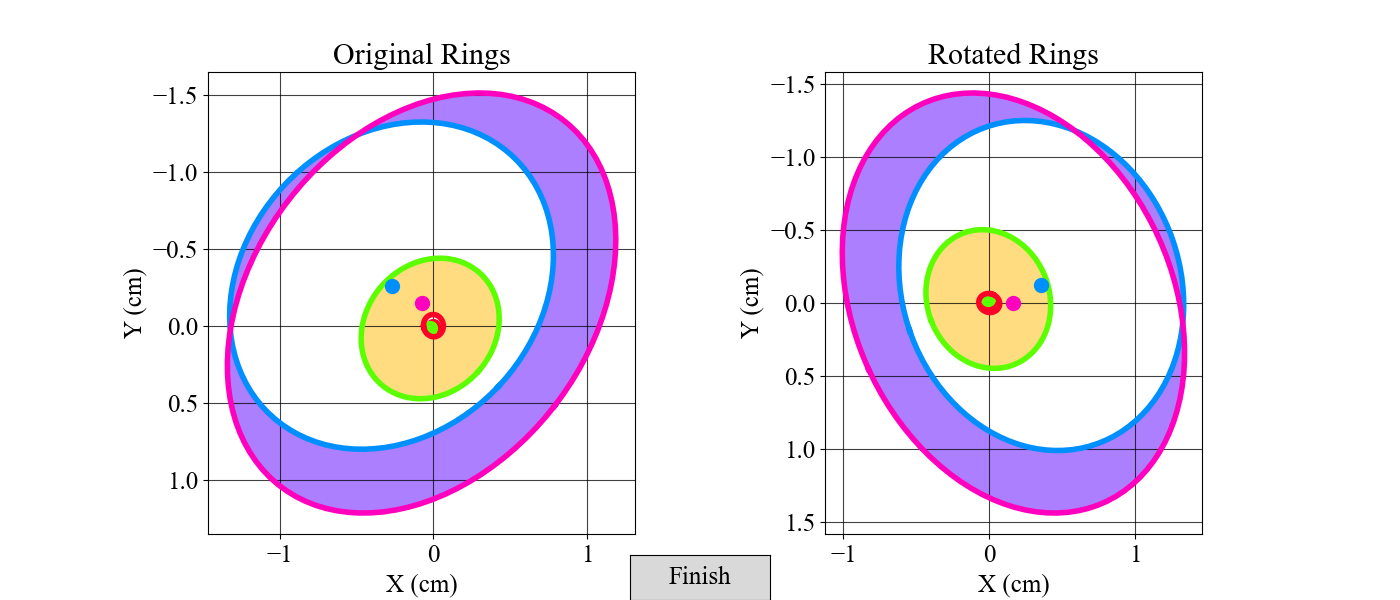
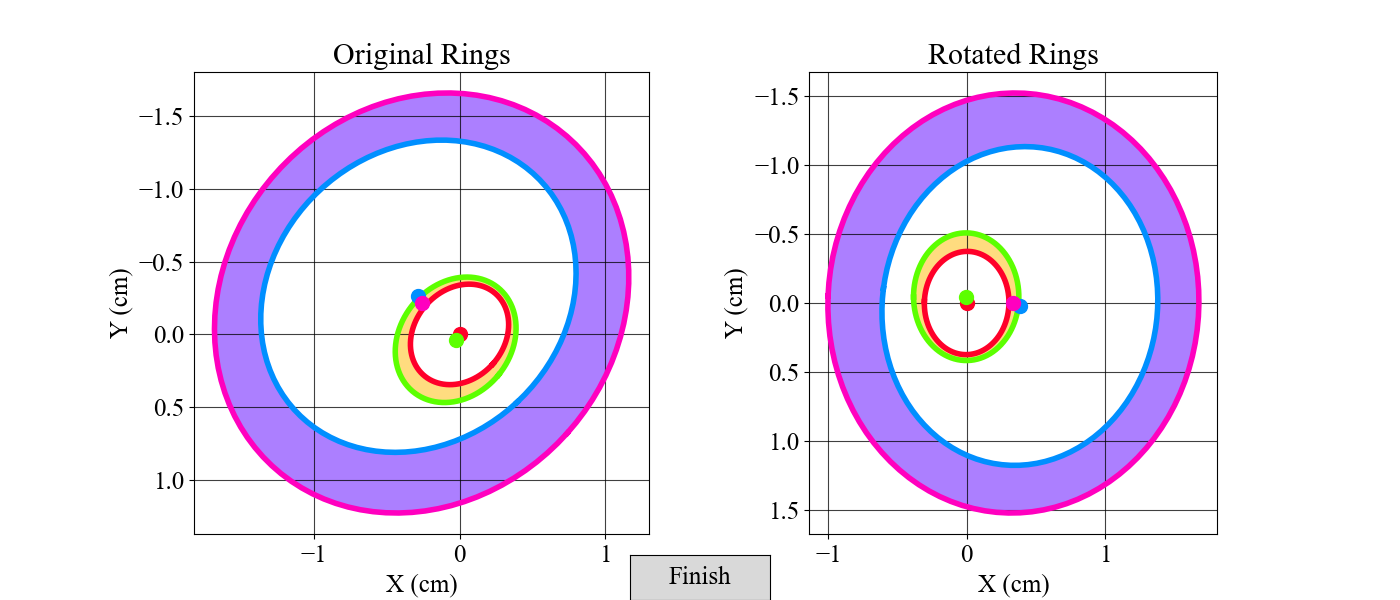
edits with overplot

diff --git a/python_code/opalfox.py b/python_code/opalfox.py
@@ -33,7 +33,7 @@ import cv2
 from scipy.stats import binned_statistic_2d
 from scipy.signal import find_peaks
 from scipy.ndimage import median_filter, gaussian_filter
-from matplotlib.widgets import Button
+from matplotlib.widgets import Button, CheckButtons
 import time
 plt.rcParams["font.family"] = "Times New Roman" 
 plt.rcParams["font.size"]   = 18
@@ -67,13 +67,15 @@ def plotimage(image,brighten=0,title="FOXSI Optical Alignment",cmap='viridis'):
     return fig, ax
 ############################################################
 # Allows user to select n points on image (opens and closes plot for selection)
-def selectpoints(image, n=4, brighten=0,zflag=False,norm=0,ax=0,cmap='viridis',title="FOXSI: Select {:.0f} Points on Image"):
+def selectpoints(image, n=4, brighten=0,zflag=False,norm=0,ax=0,cmap='viridis',title="FOXSI: Select {:.0f} Points on Image",overplot_type=None):
     title=title.format(n)
     # Show Image (and set up scatter points)
     if ax == 0:
         fig, ax = plotimage(image,brighten=brighten,title=title,cmap=cmap)
         fig.canvas.manager.full_screen_toggle()
     scatter = ax.scatter([], [], marker='.', color='red')
+    if overplot_type!=None:
+        overplot, = ax.plot([],[], color='red',alpha=0.3)
     # Plot Lines at different angles
     sz = np.shape(image)
     lw=0.5
@@ -89,6 +91,9 @@ def selectpoints(image, n=4, brighten=0,zflag=False,norm=0,ax=0,cmap='viridis',t
     bundo = Button(axundo, 'Undo')
     axreset = fig.add_axes([0.45, 0.05, 0.1, 0.075])
     breset = Button(axreset, 'Reset')
+    # if overplot_type != None:
+        # axtoggle = fig.add_axes([0.0, 0.9, 0.01, 0.075])
+        # btoggle = CheckButtons(axundo, 'Toggle')
     plt.draw()
 
 
@@ -99,34 +104,55 @@ def selectpoints(image, n=4, brighten=0,zflag=False,norm=0,ax=0,cmap='viridis',t
             self.points = []    # x,y coordinates
             self.z      = []    # z data
             self.cid    = None  # CID
-            self.goNext = False
-
-        def done(self, event):
-            if len(self.points) == n:
+            self.goNext = False # continue to next plot
+            self.toggle = True
+        ###
+        # BUTTONS
+        ###
+        def done(self, event): # button to move on to next process
+            if len(self.points) == n: # condition met
                 self.goNext = True
                 self.disconnect()
-            else:
-                plt.text(5,0,"Not enough points picked")
+            else: # not enough points selected
+                plt.text(4,0,"Not enough points picked")
                 plt.draw()
-        def undo(self, event):
+        def undo(self, event): # erase last added point
             if len(self.points) > 1:
                 self.points.pop()
                 self.z.pop()
                 scatter.set_offsets(self.points)
+                if overplot_type == "ellipse": # update the overplot
+                    if len(self.points) < 5:
+                        overplot.set_xdata([])
+                        overplot.set_ydata([])
+                    else:
+                        self.update_overplot()
                 plt.draw()
                 ax.set_title(f"Select {n - len(self.points)} more points")
             else:
                 self.points = []
                 self.z      = []
                 scatter.set_offsets(np.array([]).reshape(0, 2))
+                if overplot_type == "ellipse":
+                    overplot.set_xdata([])
+                    overplot.set_ydata([])
                 plt.draw()
                 ax.set_title(f"Select {n - len(self.points)} more points")
-        def reset(self, event):
+        def reset(self, event): # delete all selected points
             self.points = []
             self.z      = []
             scatter.set_offsets(np.array([]).reshape(0, 2))
+            if overplot_type == "ellipse": # update overplot
+                overplot.set_xdata([])
+                overplot.set_ydata([])
             plt.draw()
             ax.set_title(f"Select {n - len(self.points)} more points")
+        def toggle(self, event):
+            if not self.toggle:
+                overplot.set_alpha(0.3)
+            else:
+                overplot.set_alpha(0)
+            self.toggle = not self.toggle
 
         def __call__(self, event):
             if not bdone.ax.contains(event)[0] and not bundo.ax.contains(event)[0] and not breset.ax.contains(event)[0]: # not click button
@@ -140,13 +166,24 @@ def selectpoints(image, n=4, brighten=0,zflag=False,norm=0,ax=0,cmap='viridis',t
                                 scatter.set_offsets(self.points)
                                 plt.draw()
                                 ax.set_title(f"Select {n - len(self.points)} more points")
-                            # else:
-                            #     self.z.append((self.image_data[yi, xi].fill(np.nan))) # Replace with NaNs
+
+                                if overplot_type == "ellipse" and len(self.points)>=5: # requires five points
+                                    self.update_overplot()
                     elif len(self.points) == n:
                         ax.set_title(f"All points selected, click Done")
-                    # Stop connection after n points are selected
-                    # if len(self.points) == n:
-                    #     self.disconnect()
+
+        ### HELPER FUNCTIONS ###
+        def update_overplot(self): # helper function for updating overplot
+            np_points = np.array(self.points)
+            inner_x = np_points[:,0]
+            inner_y = np_points[:,1]
+            inner_pts = (np.vstack((inner_x, inner_y), dtype=np.float32)).T
+            centers, axes, angles = cv2.fitEllipse(inner_pts)
+
+            xi,yi = ellipse(centers,axes,  np.radians(angles))
+            # Plot ellipse
+            overplot.set_xdata(xi)
+            overplot.set_ydata(yi)
         # Disconnect user clicks
         def disconnect(self):
             # plt.close()
@@ -403,13 +440,13 @@ def fitrings(image,image_bin=0,rings=2,auto=1,rbin=np.linspace(0, np.sqrt(2), nu
             
             # Select inner ring
             print("Select "+str(tnum)+" points for inner edge of Ring "+str(ri+1))
-            inner_ring = selectpoints(image_newbright,n=tnum,norm=1,title='Select {:.0f} Points for Inner Ring '+str(ri+1))#,cmap="gray")
+            inner_ring = selectpoints(image_newbright,n=tnum,norm=1,title='Select {:.0f} Points for Inner Ring '+str(ri+1), overplot_type="ellipse")#,cmap="gray")
             inner_x[:,ri] = inner_ring[:,0]
             inner_y[:,ri] = inner_ring[:,1]
             inner_r[:,ri] = np.sqrt(inner_x[:,ri]**2 + inner_y[:,ri]**2)
             # Select outer ring
             print("Select "+str(tnum)+" points for outer edge of Ring "+str(ri+1))
-            outer_ring = selectpoints(image_newbright,n=tnum,norm=1,title='Select {:.0f} Points for Outer Ring '+str(ri+1))#,cmap="gray")
+            outer_ring = selectpoints(image_newbright,n=tnum,norm=1,title='Select {:.0f} Points for Outer Ring '+str(ri+1), overplot_type="ellipse")#,cmap="gray")
             outer_x[:,ri] = outer_ring[:,0]
             outer_y[:,ri] = outer_ring[:,1]
             outer_r[:,ri] = np.sqrt(outer_ring[:,0]**2 + outer_ring[:,1]**2)

diff --git a/python_code/opalfox_main.py b/python_code/opalfox_main.py
@@ -27,10 +27,10 @@ from matplotlib.widgets import Button
 # Section 0: Initialize Parameters
 ###############################################################################
 ########### File Parameters for Specifying Image
-pos            = 4       # Optic Position
+pos            = 5       # Optic Position
 run            = 1       # Testing Run Number
 basedir        = os.path.dirname(os.getcwd()) # Change Base Directory for images
-team           = "Nagoya"        # Team Name
+team           = "Heritage"        # Team Name
 date           = '07-23-24'        # Date of Test
 filetype       = '.JPG'            # Image File Type
 ########### Box surrounding optical laser image (usually a set of 4 x 4 squares)
@@ -137,7 +137,7 @@ if plt_flg:
     for rii in range(0,rings*2,2):
         # Find ellipse equation
         xi,yi = opalfox.ellipse(centers[rii,:]*sf-(boxlen)/2.0,axes[rii,:]*sf,  np.radians(angles[rii]))
-        xo,yo = opalfox.ellipse(centers[rii,:]*sf-(boxlen)/2.0,axes[rii+1,:]*sf,np.radians(angles[rii+1]))
+        xo,yo = opalfox.ellipse(centers[rii+1,:]*sf-(boxlen)/2.0,axes[rii+1,:]*sf,np.radians(angles[rii+1]))
         # Plot ellipse
         plt.plot(xi,-yi, color='red', label='Fitted Ellipse')
         plt.plot(xo,-yo, color='red', label='Fitted Ellipse')
